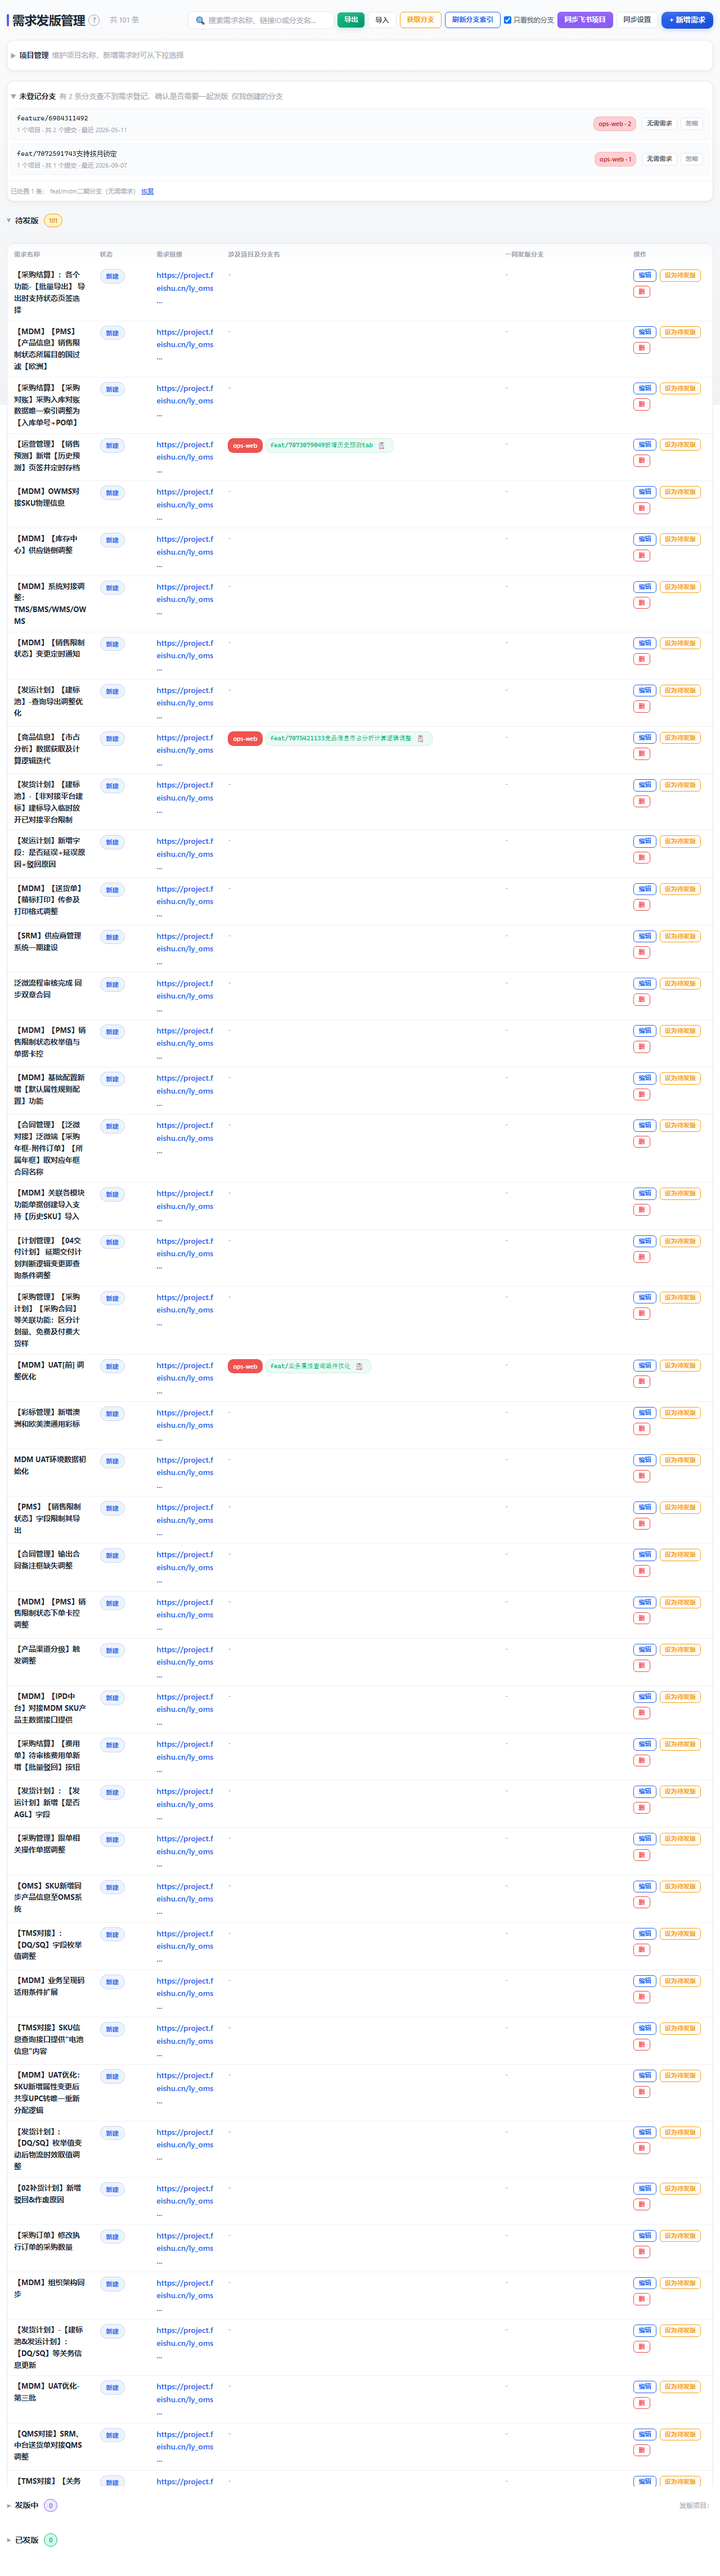
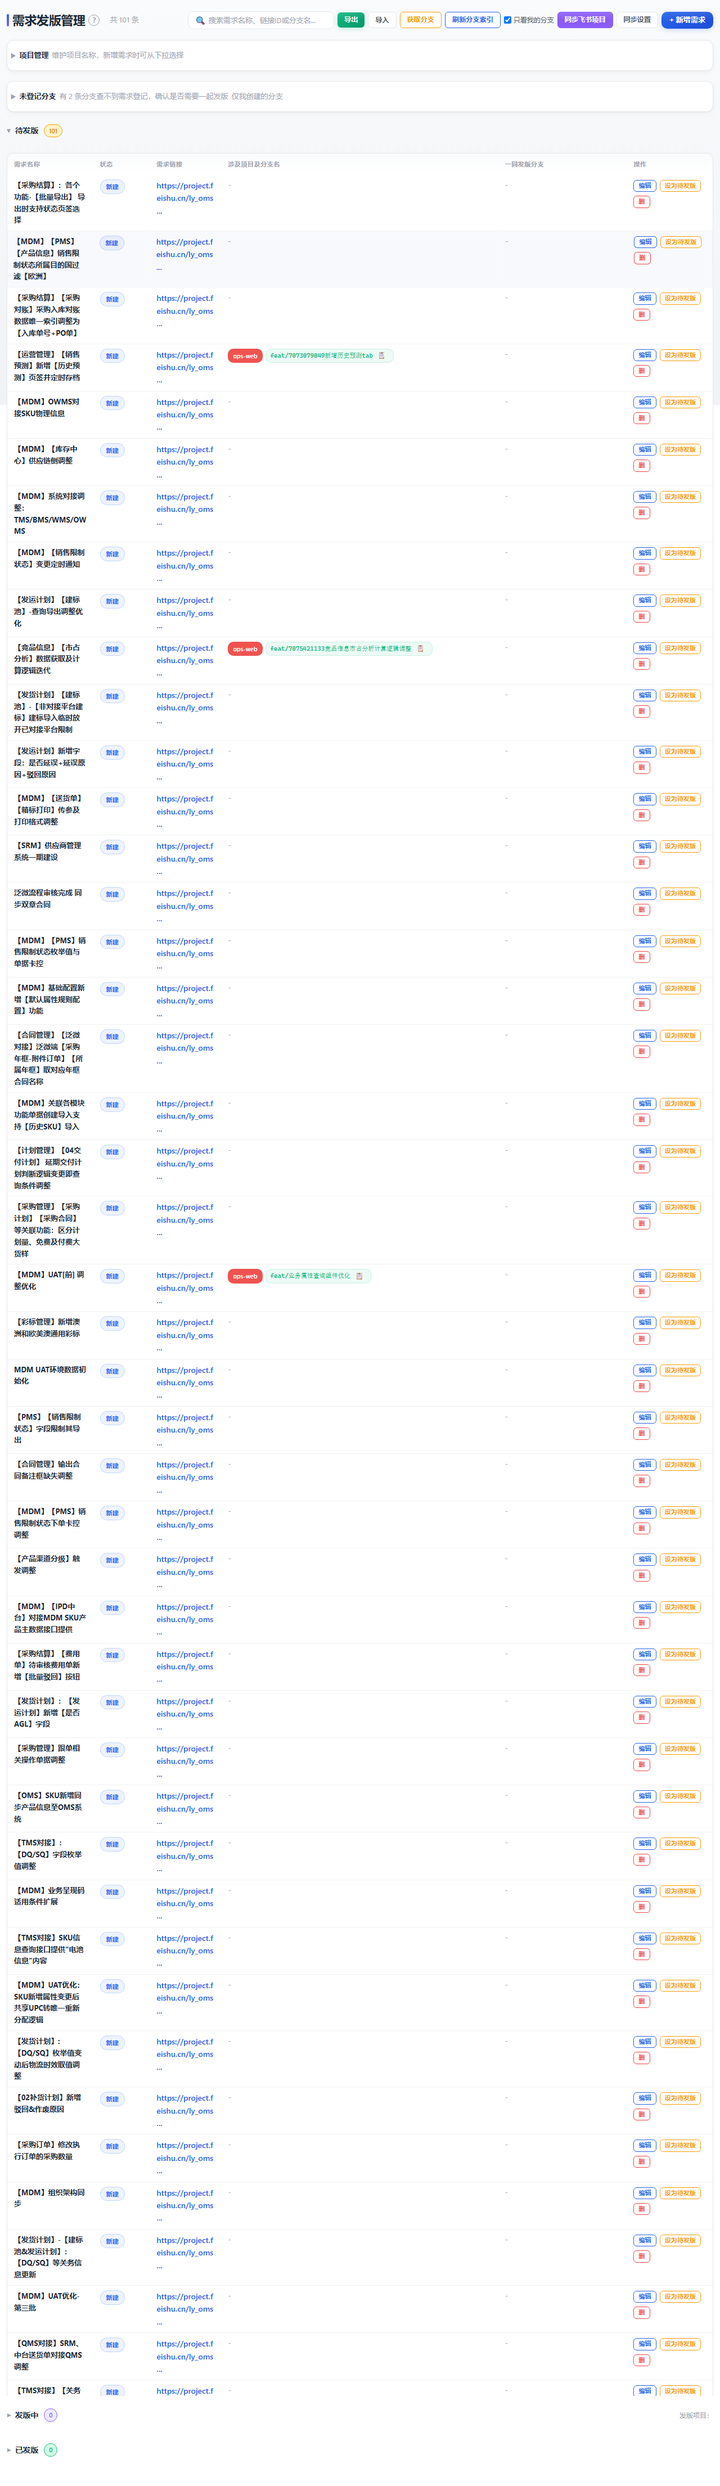
feat(release-pilot): 同步预览分组可收起且不再默认勾选，未登记面板默认收起
- 预览按状态分组后每组可点标题收起（收起只影响显示，不动已勾选状态），
  组头箭头随状态旋转；「全选本组」加 @click.stop，收起态下也能整组勾选
- 打开预览不再预勾选需求、不再默认打开「只看未导入」，筛选决定交回用户
- 未登记分支面板默认收起：它是需要确认的例外，不是每天要看的主线内容

diff --git a/todo-release.js b/todo-release.js
@@ -74,7 +74,9 @@ createApp({
       indexProgress: { visible: false, done: 0, total: 0 },
       branchLinks: {}, // { '项目\u0000分支': [需求ID] }
       branchTriage: {}, // { '项目\u0000分支': { action:'exempt'|'ignored', at } }
-      unregExpanded: true,
+      // 未登记分支面板默认收起：它是「需要你确认的例外」，不是每天都要看的主线内容；
+      // 折叠时标题上仍会显示条数，不会漏。
+      unregExpanded: false,
 
       // ↓↓↓ v2 新增：飞书项目同步 ↓↓↓
       meegleStatus: { authenticated: null, host: '', error: '' },
@@ -89,9 +91,11 @@ createApp({
         excludeStatuses: ['已结束', '已上线'],
       },
       syncSettings: { visible: false, loading: false, error: '', spaces: [], types: [] },
-      syncDialog: { visible: false, loading: false, error: '', perType: [], errors: [], keyword: '', onlyUnregistered: true },
+      syncDialog: { visible: false, loading: false, error: '', perType: [], errors: [], keyword: '', onlyUnregistered: false },
       syncRaw: [],
       syncSelection: {},
+      // 状态分组里被手动收起的那些（默认全部展开：要勾选就得先看得见）
+      syncCollapsed: {},
       // 分支索引只保留自己创建的分支：同事的分支混进未登记列表与匹配结果纯是噪声
       indexConfig: { onlyMine: true }
     })
@@ -1208,8 +1212,9 @@ createApp({
         if (eligible.length) await refreshBranchIndex(false)
       }
 
-      state.syncDialog = { visible: true, loading: true, error: '', perType: [], errors: [], keyword: '', onlyUnregistered: true }
+      state.syncDialog = { visible: true, loading: true, error: '', perType: [], errors: [], keyword: '', onlyUnregistered: false }
       state.syncSelection = {}
+      state.syncCollapsed = {}
       try {
         await fetchMeegleItems()
       } catch (e) {
@@ -1356,6 +1361,11 @@ createApp({
         else next[r.workItemId] = true
       }
       state.syncSelection = next
+    }
+
+    /** 收起/展开某个状态分组。收起只影响显示，不影响已勾选的项 */
+    function toggleGroupCollapse(status) {
+      state.syncCollapsed = { ...state.syncCollapsed, [status]: !state.syncCollapsed[status] }
     }
 
     /** 导入选中项：只建新需求，已存在的默认不动（保护本地已人工调整过的数据） */
@@ -1521,8 +1531,10 @@ createApp({
       syncRows,
       syncGroups,
       toggleGroup,
+      toggleGroupCollapse,
       syncIndexHint,
-      syncSelectedCount
+      syncSelectedCount,
+      syncCollapsed: computed(() => state.syncCollapsed),
     }
   }
 }).mount('#app')

diff --git a/todo-release.html b/todo-release.html
@@ -512,15 +512,17 @@
         </div>
         <div class="sync-list">
           <template v-for="g in syncGroups" :key="g.status">
-            <div class="sync-group-header">
+            <div class="sync-group-header" @click="toggleGroupCollapse(g.status)">
+              <span class="arrow" :class="{open:!syncCollapsed[g.status]}">▶</span>
               <span class="sync-group-name">{{g.status}}</span>
               <span class="sync-group-count">{{g.total}} 条<span v-if="g.newCount !== g.total">（其中新增 {{g.newCount}}）</span></span>
               <span style="flex:1"></span>
               <span v-if="g.selected" class="sync-group-sel">已选 {{g.selected}}</span>
-              <button v-if="g.newCount" class="btn btn-outline btn-xs" @click="toggleGroup(g)">
+              <button v-if="g.newCount" class="btn btn-outline btn-xs" @click.stop="toggleGroup(g)">
                 {{g.selected >= g.newCount ? '取消本组' : '全选本组'}}
               </button>
             </div>
+            <template v-if="!syncCollapsed[g.status]">
             <div v-for="r in g.rows" :key="r.workItemId" class="sync-row" :class="{existing:!r.isNew}">
               <input type="checkbox" :checked="!!syncSelection[r.workItemId]" :disabled="!r.isNew" @change="toggleSyncRow(r.workItemId)">
               <div class="sync-row-main">
@@ -544,6 +546,7 @@
               </div>
               <a class="sync-link" :href="r.link" target="_blank" title="打开飞书需求">↗</a>
             </div>
+            </template>
           </template>
           <div v-if="!syncRows.length" class="sync-hint" style="padding:20px;text-align:center">
             没有符合条件的需求<span v-if="syncDialog.onlyUnregistered">（当前只显示未导入的，若上一批已全部导入，这里为空属正常）</span>

diff --git a/todo-release.css b/todo-release.css
@@ -1614,3 +1614,11 @@ input[data-role="syncProjectName"] {
   display: inline-flex; align-items: center; gap: 4px; white-space: nowrap;
   font-size: 12px; color: var(--text-secondary); cursor: pointer; user-select: none;
 }
+/* v2: 同步预览的状态分组可收起（.arrow 在既有样式里是按父容器限定的，
+   这里补一份同样的旋转效果，不改动既有规则、避免影响其它面板） */
+.sync-group-header { cursor: pointer; }
+.sync-group-header .arrow {
+  transition: transform var(--transition);
+  font-size: 11px; color: var(--text-muted); display: inline-block;
+}
+.sync-group-header .arrow.open { transform: rotate(90deg); }
